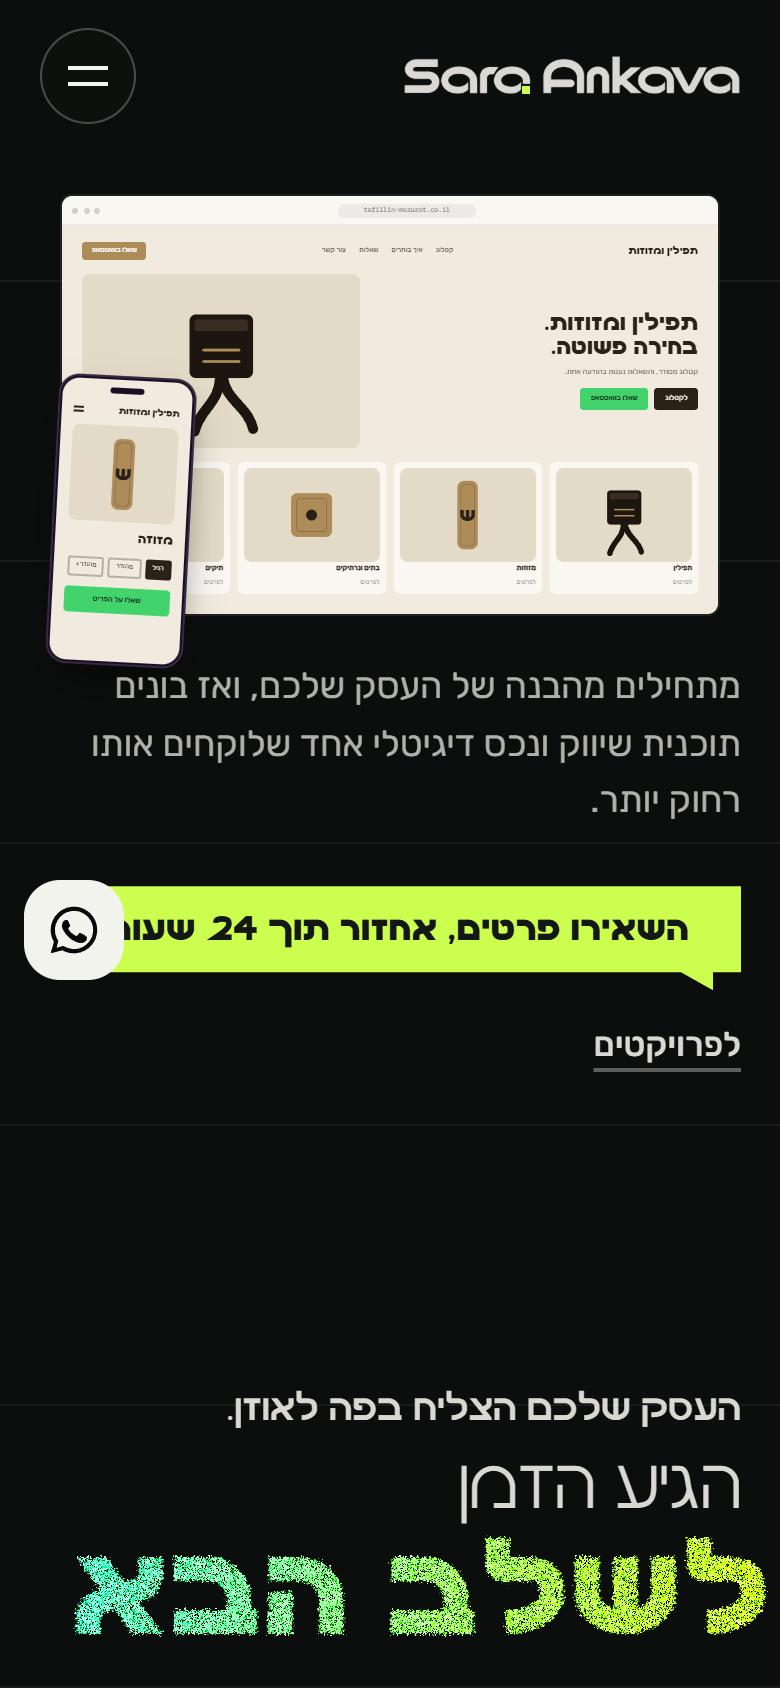
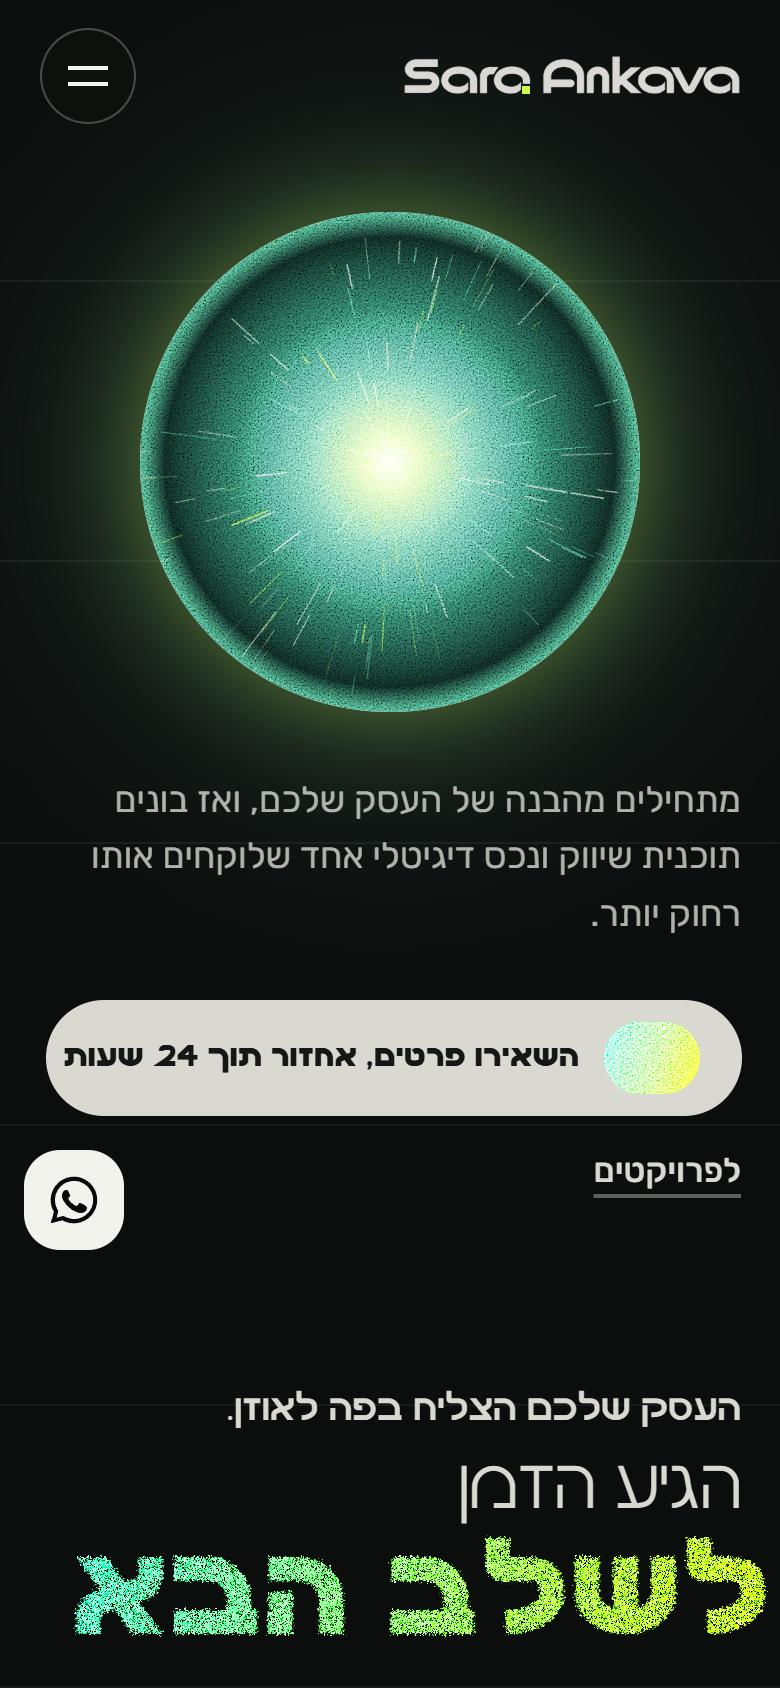
v6 hero: voice orb (glowing core, radial sparks, expanding rings) replaces the mockup

diff --git a/versions/v6/index.html b/versions/v6/index.html
@@ -18,7 +18,7 @@
 <link rel="preload" href="assets/fonts/SaraAnkava-Bold-v1.2.woff2" as="font" type="font/woff2" crossorigin>
 <link rel="stylesheet" href="assets/css/style.css?v=4">
 <link rel="stylesheet" href="assets/css/v4.css?v=2">
-<link rel="stylesheet" href="assets/css/v6.css?v=24">
+<link rel="stylesheet" href="assets/css/v6.css?v=27">
 <meta name="robots" content="noindex">
 <script>document.documentElement.classList.add('js');setTimeout(function(){if(!window.__saReady)document.documentElement.classList.remove('js')},3000)</script>
 <script type="application/ld+json">
@@ -54,29 +54,7 @@
   <svg width="0" height="0" style="position:absolute" aria-hidden="true"><filter id="v6rough" x="-2%" y="-2%" width="104%" height="104%"><feTurbulence type="fractalNoise" baseFrequency=".8" numOctaves="2" seed="2" result="n"/><feDisplacementMap in="SourceGraphic" in2="n" scale="5" xChannelSelector="R" yChannelSelector="G"/></filter></svg>
   <section class="h6 gx" id="top" aria-labelledby="hero-title">
     <div class="h6__grid" aria-hidden="true"><i></i><i></i><i></i><i></i><i></i><i></i><i></i><i></i></div>
-    <div class="h6__mock" aria-hidden="true">
-      <div class="h6__streak gx s1"></div><div class="h6__streak gx s2"></div>
-      <div class="h6__mkwrap"><div class="mk mk--tef" aria-hidden="true"><div class="mk__win"><div class="mk__bar"><b></b><b></b><b></b><span lang="en" dir="ltr">tefillin-mezuzot.co.il</span></div>
-  <div class="mk__page">
-    <div class="mk__nav"><span class="mk__brand">תפילין ומזוזות</span><span class="mk__links"><span>קטלוג</span><span>איך בוחרים</span><span>שאלות</span><span>צור קשר</span></span><span class="mk__cta">שאלו בוואטסאפ</span></div>
-    <div class="mk__hero">
-      <div><h4 class="mk__h">תפילין ומזוזות.<br>בחירה פשוטה.</h4><p class="mk__p">קטלוג מסודר, והשאלות נענות בהודעה אחת.</p><div class="mk__btns"><span class="mk__btn">לקטלוג</span><span class="mk__btn mk__btn--wa">שאלו בוואטסאפ</span></div></div>
-      <div class="mk__vis"><svg class="mk__art" viewBox="0 0 120 120" aria-hidden="true"><path d="M60 72C60 94 44 98 40 116" fill="none" stroke="#1d1610" stroke-width="8" stroke-linecap="round"/><path d="M62 72C64 92 82 96 86 114" fill="none" stroke="#1d1610" stroke-width="8" stroke-linecap="round"/><rect x="36" y="24" width="50" height="50" rx="5" fill="#1d1610"/><rect x="40" y="28" width="42" height="9" rx="2" fill="#3a2d22"/><path d="M47 52h28M47 61h28" stroke="#B08D57" stroke-width="2.2" stroke-linecap="round"/></svg></div>
-    </div>
-    <div class="mk__row">
-      <div class="mk__card"><div class="mk__vis"><svg class="mk__art" viewBox="0 0 120 120" aria-hidden="true"><path d="M60 72C60 94 44 98 40 116" fill="none" stroke="#1d1610" stroke-width="8" stroke-linecap="round"/><path d="M62 72C64 92 82 96 86 114" fill="none" stroke="#1d1610" stroke-width="8" stroke-linecap="round"/><rect x="36" y="24" width="50" height="50" rx="5" fill="#1d1610"/><rect x="40" y="28" width="42" height="9" rx="2" fill="#3a2d22"/><path d="M47 52h28M47 61h28" stroke="#B08D57" stroke-width="2.2" stroke-linecap="round"/></svg></div><b>תפילין</b><small>לפרטים</small></div>
-      <div class="mk__card"><div class="mk__vis"><svg class="mk__art" viewBox="0 0 120 120" aria-hidden="true"><rect x="45" y="10" width="30" height="100" rx="10" fill="#B08D57"/><rect x="50" y="15" width="20" height="90" rx="7" fill="none" stroke="#2B2118" stroke-opacity=".28"/><text x="60" y="68" text-anchor="middle" font-size="27" font-weight="700" fill="#2B2118" font-family="Sara Ankava,Rubik,sans-serif">ש</text></svg></div><b>מזוזות</b><small>לפרטים</small></div>
-      <div class="mk__card"><div class="mk__vis"><svg class="mk__art" viewBox="0 0 120 120" aria-hidden="true"><rect x="30" y="28" width="60" height="64" rx="9" fill="#B08D57"/><rect x="38" y="36" width="44" height="48" rx="5" fill="none" stroke="#2B2118" stroke-opacity=".35"/><circle cx="60" cy="60" r="8" fill="#2B2118"/></svg></div><b>בתים ונרתיקים</b><small>לפרטים</small></div>
-      <div class="mk__card"><div class="mk__vis"><svg class="mk__art" viewBox="0 0 120 120" aria-hidden="true"><rect x="26" y="40" width="68" height="50" rx="8" fill="#2B2118"/><path d="M46 40v-8a14 14 0 0 1 28 0v8" fill="none" stroke="#2B2118" stroke-width="6"/><rect x="26" y="58" width="68" height="6" fill="#B08D57"/></svg></div><b>תיקים</b><small>לפרטים</small></div>
-    </div>
-  </div><span class="mk__wa"></span></div><div class="mk__phone"><div class="mk__scr">
-    <div class="mk__ptop"><span class="mk__brand">תפילין ומזוזות</span><span class="mk__ham"><i></i><i></i></span></div>
-    <div class="mk__vis"><svg class="mk__art" viewBox="0 0 120 120" aria-hidden="true"><rect x="45" y="10" width="30" height="100" rx="10" fill="#B08D57"/><rect x="50" y="15" width="20" height="90" rx="7" fill="none" stroke="#2B2118" stroke-opacity=".28"/><text x="60" y="68" text-anchor="middle" font-size="27" font-weight="700" fill="#2B2118" font-family="Sara Ankava,Rubik,sans-serif">ש</text></svg></div>
-    <b class="mk__ph">מזוזה</b>
-    <div class="mk__chips"><span class="on">רגיל</span><span>מהודר</span><span>מהודר+</span></div>
-    <span class="mk__pbtn">שאלו על הפריט</span>
-  </div></div></div></div>
-    </div>
+    <div class="h6__orb" aria-hidden="true"><i class="r r1"></i><i class="r r2"></i><i class="r r3"></i><div class="h6__disc"><canvas id="orb" width="720" height="720"></canvas></div></div>
     <a class="h6__card" href="#projects"><span>הפרויקט האחרון</span><b>אתר תפילין ומזוזות</b></a>
     <div class="h6__info">
       <p class="h6__p">מתחילים מהבנה של העסק שלכם, ואז בונים תוכנית שיווק ונכס דיגיטלי אחד שלוקחים אותו רחוק יותר.</p>
@@ -529,6 +507,27 @@
   }
   var go=function(){fit()};
   (document.fonts&&document.fonts.ready?document.fonts.ready:Promise.resolve()).then(go);addEventListener("resize",go);go();
+})()</script>
+<script>(function(){
+  var cv=document.getElementById("orb");if(!cv)return;var ctx=cv.getContext("2d"),S=cv.width,C=S/2,R=S/2;
+  var reduce=matchMedia("(prefers-reduced-motion:reduce)").matches;
+  var P=[];for(var i=0;i<190;i++)P.push({a:Math.random()*6.283,r:Math.random(),s:.002+Math.random()*.006,l:.04+Math.random()*.16,al:.25+Math.random()*.75,w:.6+Math.random()*1.8,c:Math.random()<.55?"255,255,235":(Math.random()<.5?"200,255,58":"107,240,196")});
+  var t=0;
+  function draw(){
+    ctx.clearRect(0,0,S,S);
+    var g=ctx.createRadialGradient(C,C,0,C,C,R);
+    g.addColorStop(0,"rgba(255,255,240,1)");g.addColorStop(.10,"rgba(232,255,170,.96)");g.addColorStop(.30,"rgba(107,240,196,.78)");g.addColorStop(.62,"rgba(24,104,84,.92)");g.addColorStop(.9,"rgba(10,34,29,1)");g.addColorStop(1,"rgba(60,150,120,1)");
+    ctx.fillStyle=g;ctx.fillRect(0,0,S,S);
+    ctx.save();ctx.translate(C,C);ctx.lineCap="round";
+    for(var i=0;i<P.length;i++){var p=P[i];if(!reduce){p.r+=p.s;if(p.r>1){p.r=.02;p.a=Math.random()*6.283}}
+      var r0=p.r*R,r1=Math.min(R,r0+p.l*R*(.4+p.r)),ca=Math.cos(p.a),sa=Math.sin(p.a);
+      ctx.strokeStyle="rgba("+p.c+","+(p.al*(1-p.r*.55))+")";ctx.lineWidth=p.w;ctx.beginPath();ctx.moveTo(ca*r0,sa*r0);ctx.lineTo(ca*r1,sa*r1);ctx.stroke()}
+    ctx.restore();
+    var core=ctx.createRadialGradient(C,C,0,C,C,R*.34);core.addColorStop(0,"rgba(255,255,245,"+(.95+.05*Math.sin(t))+")");core.addColorStop(.5,"rgba(230,255,170,.35)");core.addColorStop(1,"rgba(230,255,170,0)");
+    ctx.fillStyle=core;ctx.fillRect(0,0,S,S);
+    t+=.03;if(!reduce)requestAnimationFrame(draw)
+  }
+  draw();
 })()</script>
 </body>
 </html>

diff --git a/versions/v6/assets/css/v6.css b/versions/v6/assets/css/v6.css
@@ -172,3 +172,19 @@ body::before,body::after{display:none!important}
 .cta6--main::before{content:"";flex:none;width:68px;height:46px;border-radius:999px;background-image:var(--v6-n),linear-gradient(110deg,var(--v6-mint),var(--v6-lime));background-size:170px auto,auto;background-blend-mode:overlay,normal;filter:contrast(1.4) saturate(1.2);transition:transform .35s}
 .cta6--main:hover{background:var(--v6-paper);color:var(--v6-char);border-color:transparent}
 .cta6--main:hover::before{transform:scaleX(1.12)}
+
+/* ===== אורב "קול שמתפשט": ליבה זוהרת, ניצוצות רדיאליים וטבעות שמתפשטות החוצה = פה לאוזן. האלמנט היחיד עם זוהר ===== */
+.h6__orb{position:absolute;z-index:2;left:50%;transform:translateX(-50%);bottom:19vh;width:min(34vw,500px);aspect-ratio:1;pointer-events:none}
+.h6__disc{position:absolute;inset:0;border-radius:50%;overflow:hidden;isolation:isolate;box-shadow:inset 0 0 0 2px rgb(232 255 190 / .9),inset 0 0 34px rgb(200 255 58 / .5),0 0 46px rgb(200 255 58 / .35),0 0 130px rgb(107 240 196 / .3)}
+.h6__disc canvas{position:absolute;inset:0;width:100%;height:100%;display:block}
+.h6__disc::after{content:"";position:absolute;inset:0;background-image:var(--v6-n);background-size:170px;mix-blend-mode:overlay;opacity:.9}
+.h6__orb .r{position:absolute;inset:0;border-radius:50%;border:1.5px solid rgb(200 255 58 / .55);opacity:0;animation:h6-ripple 7.5s linear infinite}
+.h6__orb .r2{animation-delay:2.5s}.h6__orb .r3{animation-delay:5s}
+@keyframes h6-ripple{0%{transform:scale(1);opacity:.7}100%{transform:scale(2.15);opacity:0}}
+@media (max-width:900px){
+  .h6__orb{position:relative;left:auto;transform:none;bottom:auto;width:64vw;margin:14px auto 30px}
+  .h6__orb .r{animation:none;display:none}
+}
+@media (prefers-reduced-motion:reduce){.h6__orb .r{animation:none;display:none}}
+@media (min-width:901px){.h6__orb{left:43%;width:min(30vw,440px);bottom:21vh}}
+@media (max-width:900px){.cta6--main{min-height:58px;gap:12px;padding:6px 20px 6px 8px;font-size:15px}.cta6--main::before{width:48px;height:36px}.h6__ctas{width:100%}}
